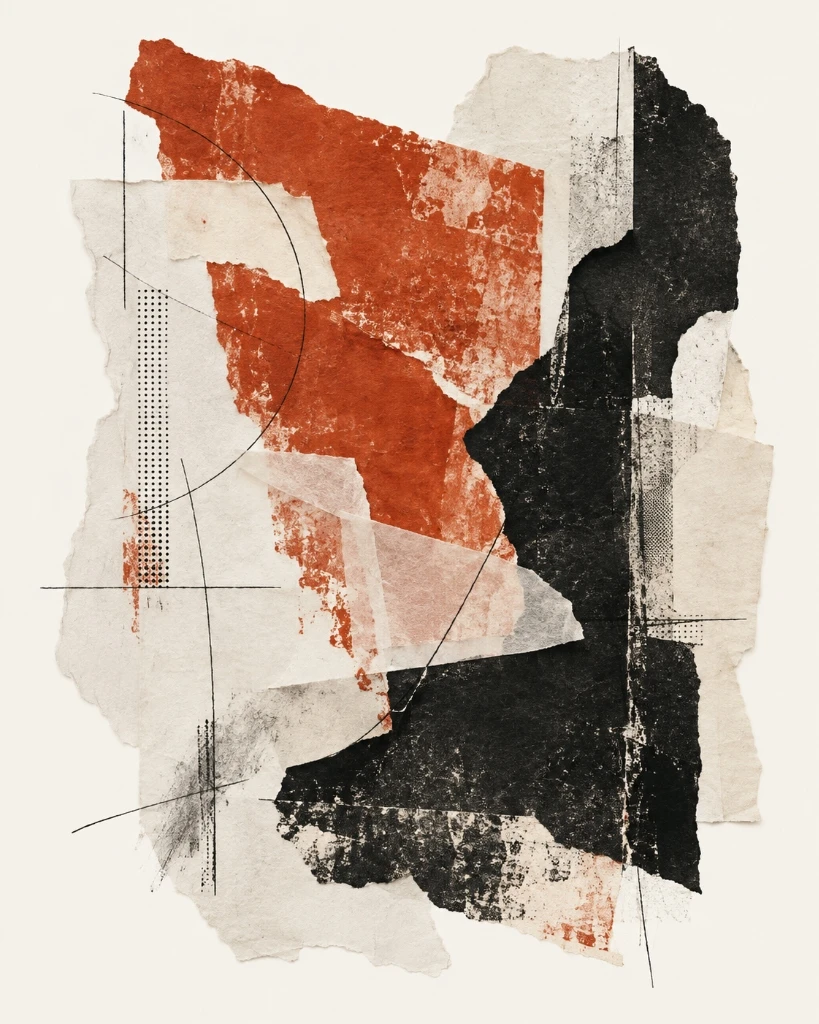
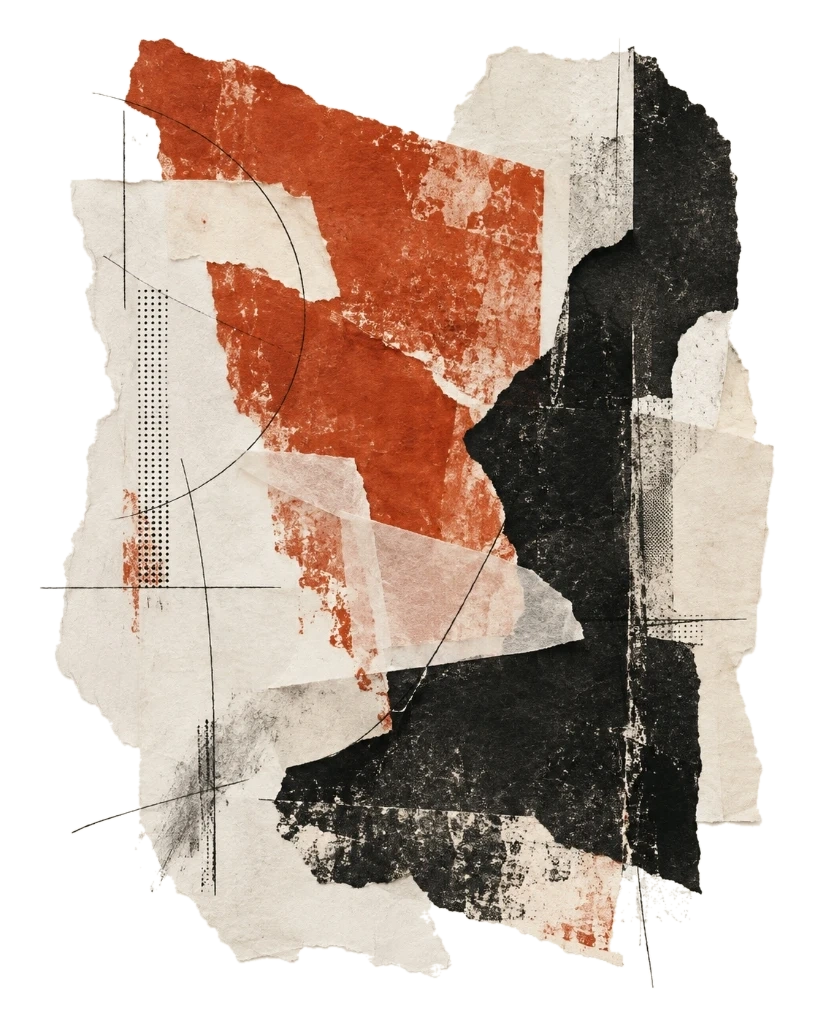
fix(editorial): remove solid background from hero collage and adapt dark mode rendering

diff --git a/apps/00-portfolio/frontend/components/editorial/HeroArt.tsx b/apps/00-portfolio/frontend/components/editorial/HeroArt.tsx
@@ -29,12 +29,13 @@ export function HeroArt() {
     >
       {/* 
         Art presentation:
-        - Light theme: seamless integration with ivory background (mix-blend-multiply).
-        - Dark theme: paper art piece mounted on charcoal surface with soft shadow, no color inversion.
+        - Transparent collage floats organically in both light and dark modes.
+        - Light mode: subtle mix-blend-multiply preserves paper texture over ivory background.
+        - Dark mode: mix-blend-normal renders original paper, charcoal, and terracotta tones cleanly.
       */}
       <div
         ref={innerRef}
-        className="relative w-full aspect-[819/1024] rounded-sm overflow-hidden transition-transform ease-out duration-100 motion-reduce:transform-none dark:shadow-2xl dark:border dark:border-border dark:bg-[#FAF7F2]"
+        className="relative w-full aspect-[819/1024] transition-transform ease-out duration-100 motion-reduce:transform-none"
       >
         <Image
           src="/images/editorial/hero-collage.webp"
@@ -43,7 +44,7 @@ export function HeroArt() {
           height={1024}
           sizes="(max-width: 640px) 90vw, (max-width: 1024px) 45vw, 420px"
           priority
-          className="w-full h-full object-contain mix-blend-multiply dark:mix-blend-normal"
+          className="w-full h-full object-contain mix-blend-multiply dark:mix-blend-normal drop-shadow-sm dark:drop-shadow-[0_8px_24px_rgba(0,0,0,0.5)]"
         />
       </div>
     </div>
